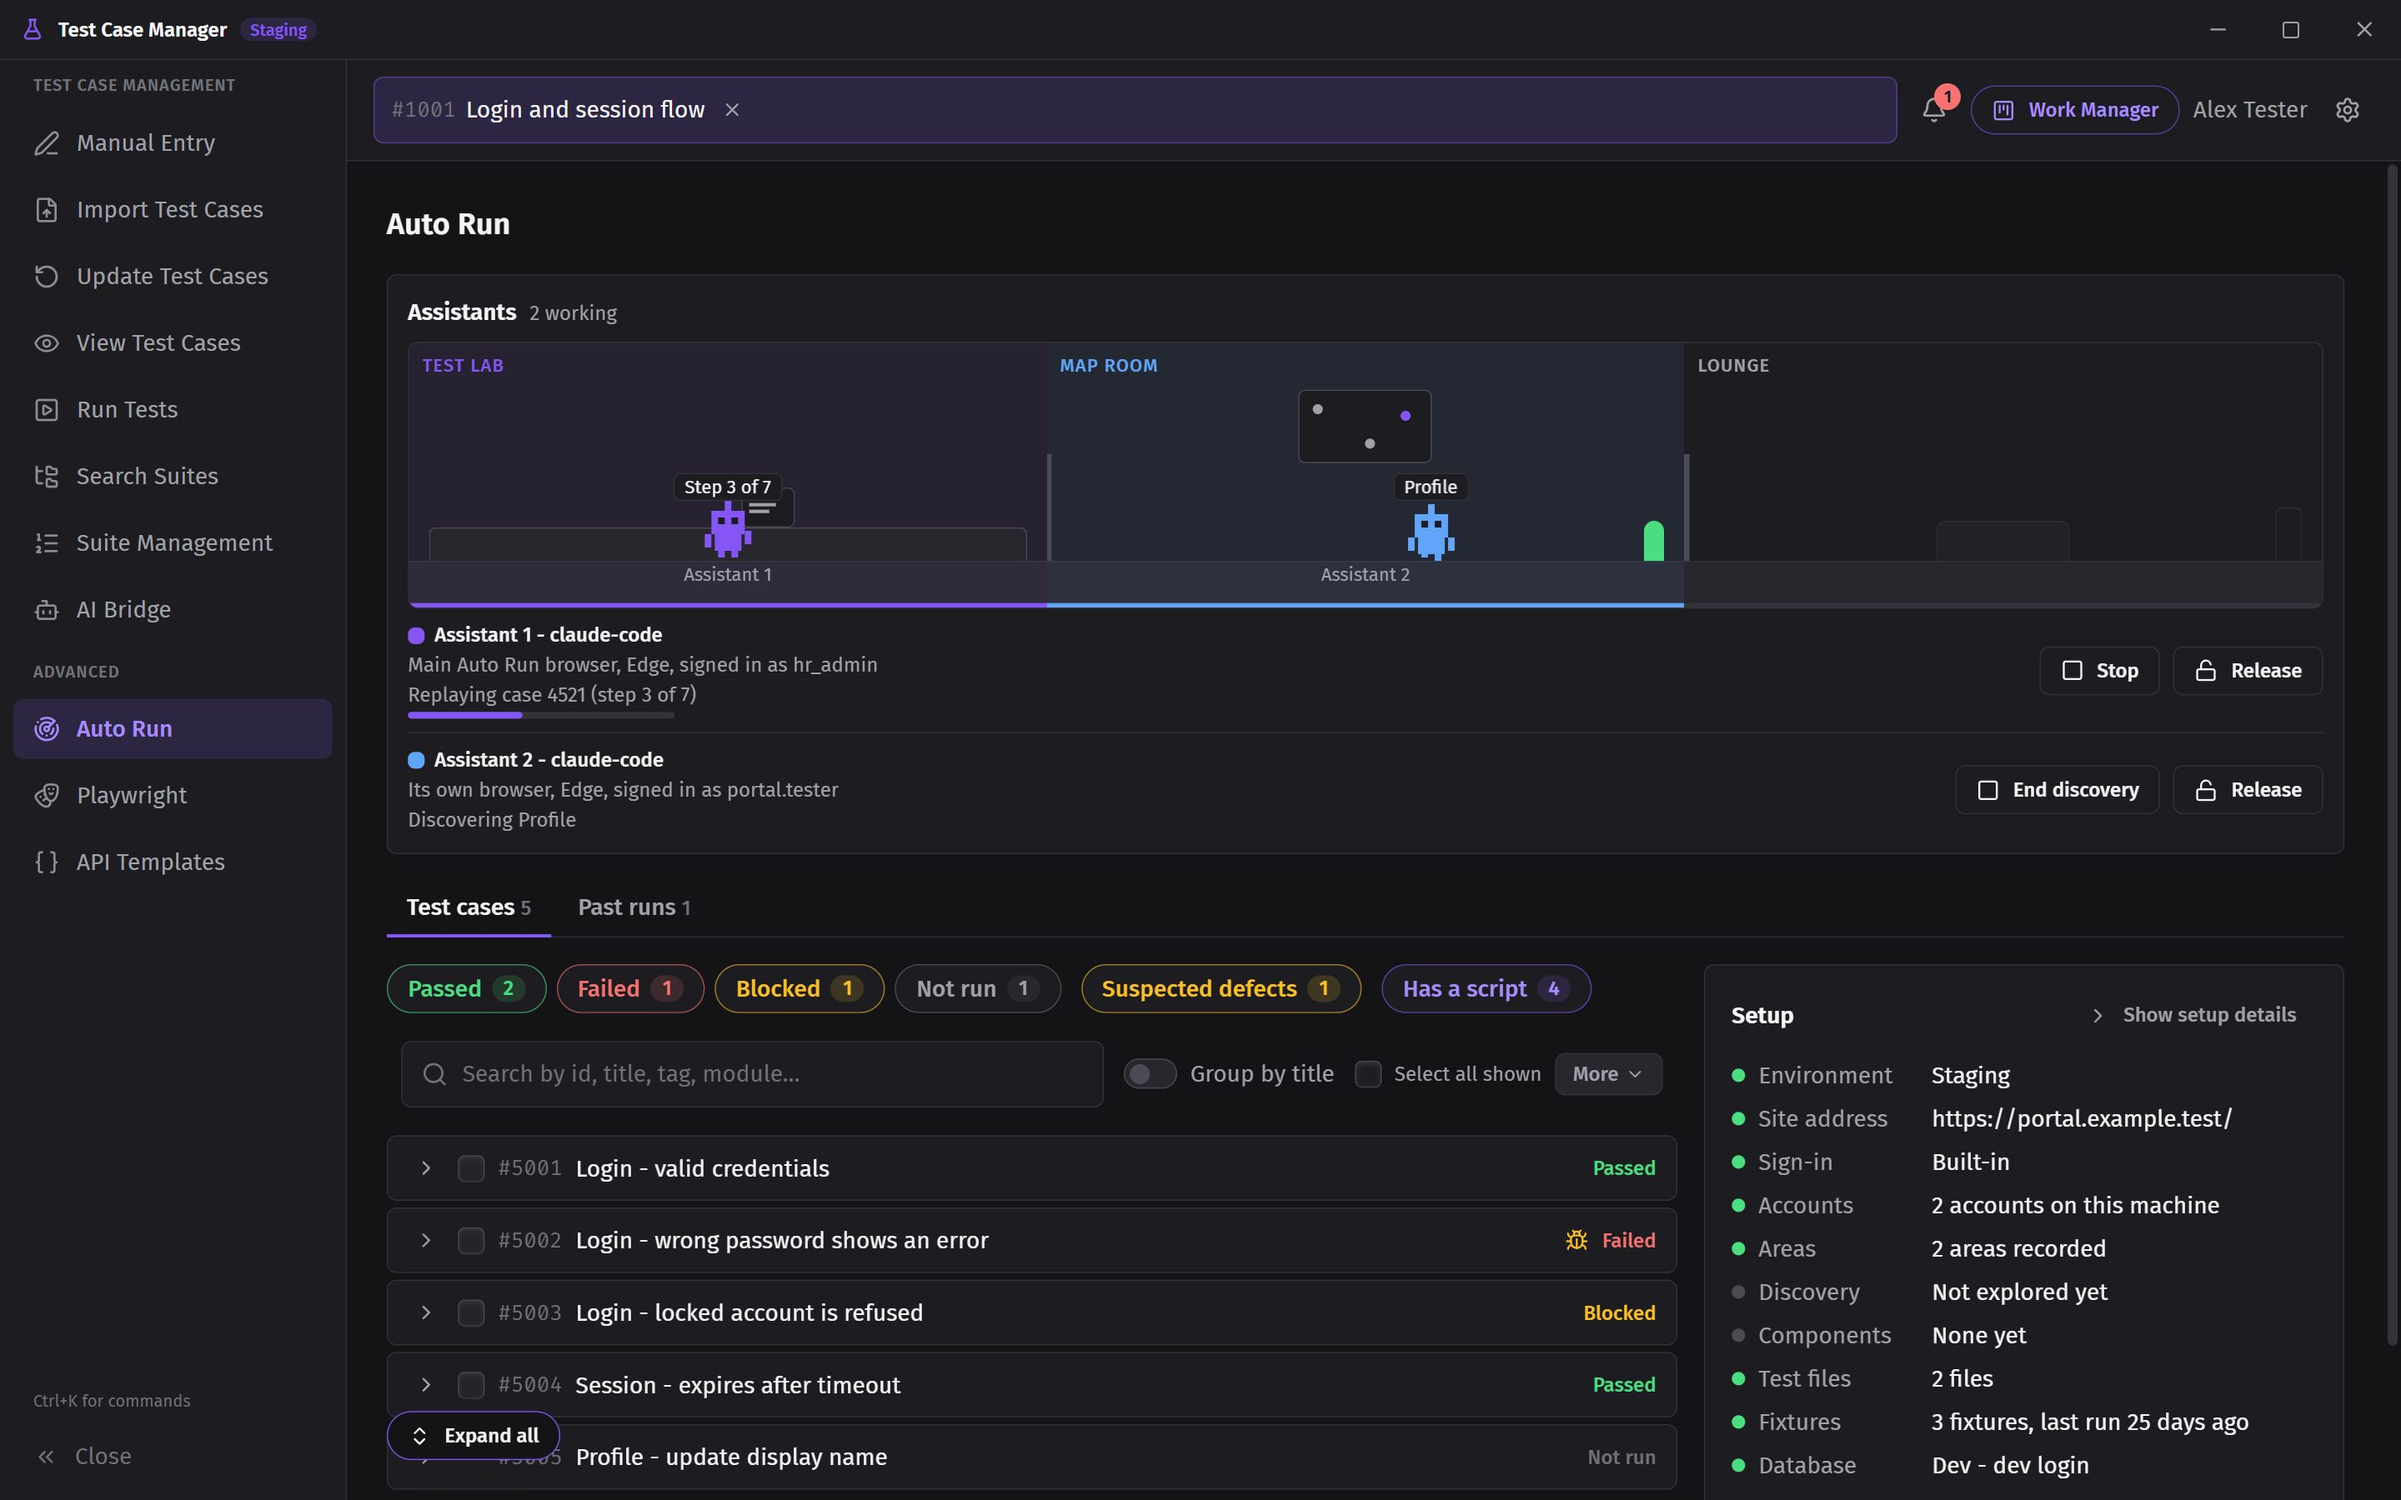
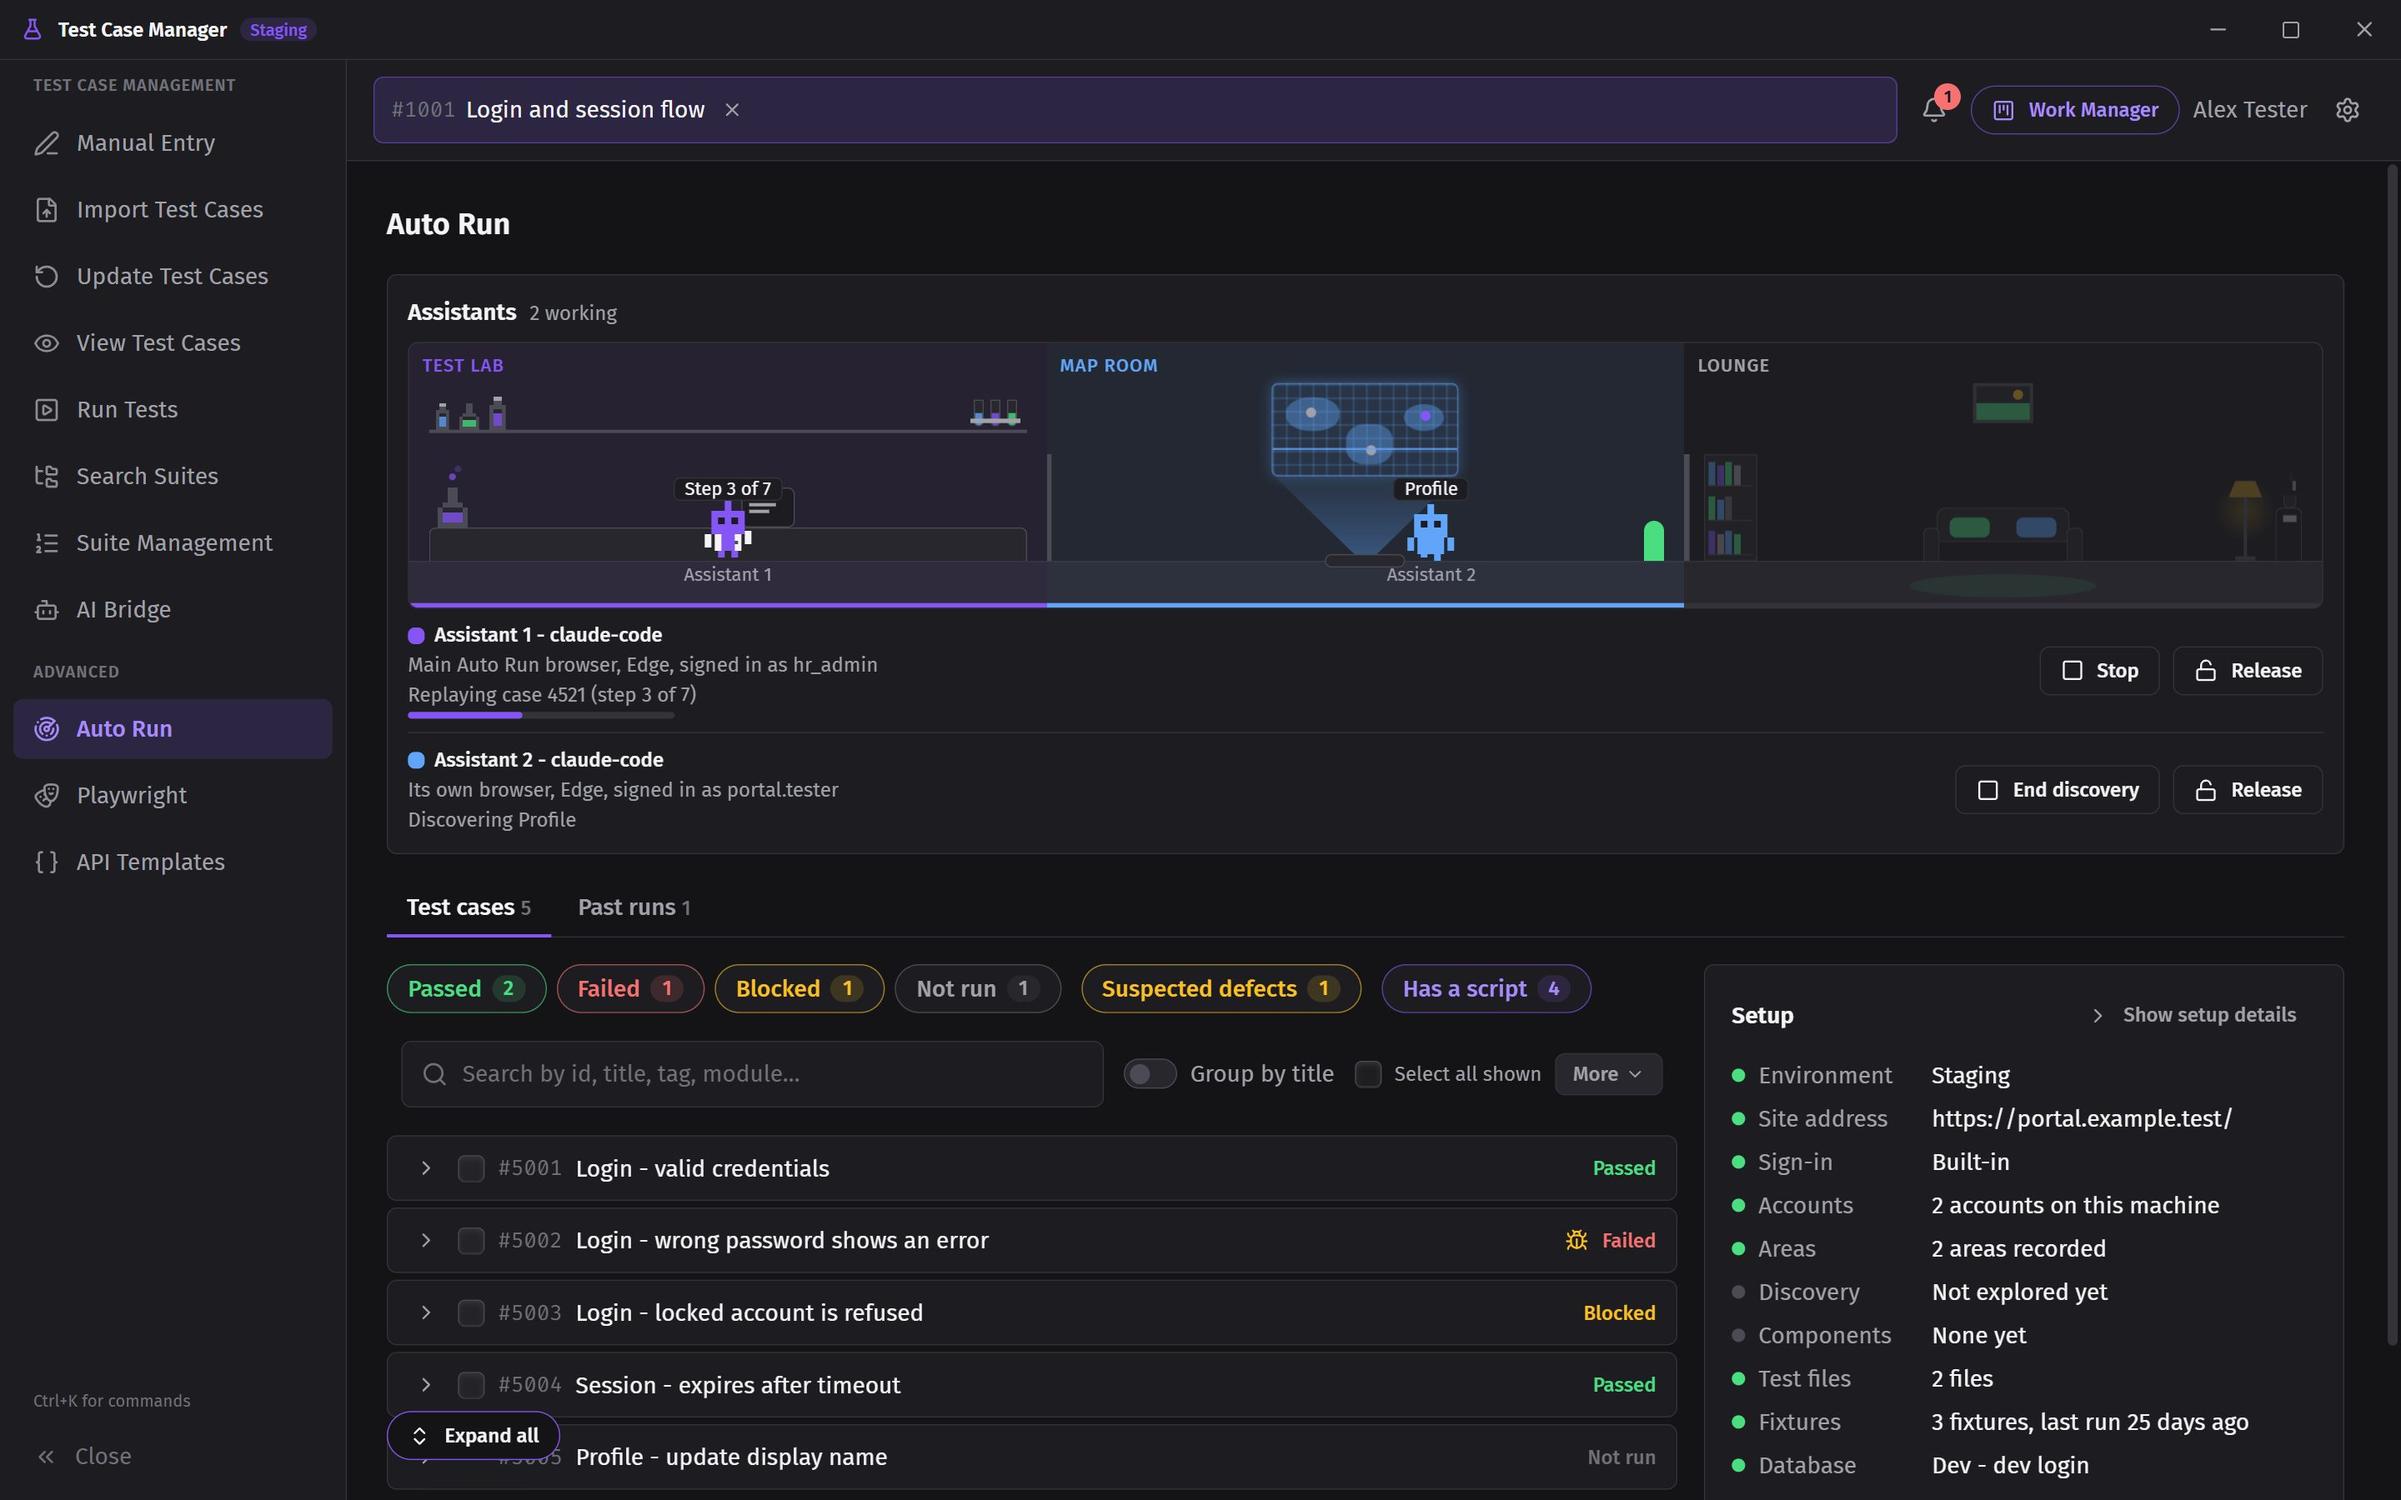
docs(v2): backlog 42 and 43 done, the hand checks owed, and the furnished office in How To Use

diff --git a/docs/backlog.html b/docs/backlog.html
@@ -75,6 +75,22 @@
     </ul>
   </div>
 
+  <h2>Second writer run, backlog 42 and 43, and a furnished office (2.4.2-beta.3, 29 October 2026)</h2>
+  <div class="item">
+    <div class="head"><span class="title">Shipped</span><span class="status todo">Shipped</span></div>
+    <p>Areas keep a menu path per menu shape; walks wait out overlays and keep an open menu open; probes count every visible match and show attributes; page answers drop an unchanged side menu; truer save notes and replays; a reset keeps its sign-in; fuller divergences. Writers make the data a case needs (through the app or API templates, never their own SQL) instead of holding it back. The Assistants office: name tags pace with their assistant, assistants without an Auto Run browser are left out, and the three rooms are furnished (chemistry lab with lab coats, holographic map, furnished lounge).</p>
+    <ul>
+      <li>Hand check owed on a live org: an account with the other menu shape (evelyn, automation51) reaches My Assessments after a writer records the second path with variant: true.</li>
+      <li>Hand check owed: the first Talent click after sign-in waits out div.mode-overlay__desc; an expanded Talent is not collapsed.</li>
+      <li>Hand check owed: reset_autorun_browser after a long discovery keeps the sign-in (log line to look for if not: "the assistant's reset found the sign-in gone").</li>
+      <li>Hand check owed: a writer run that makes its own data (a participant, a cycle) and saves it as a fixture, with nothing held back that could be made.</li>
+      <li>Hand check owed: the furnished office in a real window, both screens, light and dark, with someone idle in the Lounge.</li>
+      <li>Not detected: a sign-in reached by a click-through redirect (the print retake skips only a navigate to the sign-in address, a typed password or a sign_in action).</li>
+      <li>Not reproduced: 144580's exact trailing-space failure. Record a quirk on the cycle-selection race on a live run.</li>
+      <li>The per-call timing line is at debug level (hidden in the log viewer by default).</li>
+    </ul>
+  </div>
+
   <h2>Several writers fixes, backlog 41 (2.4.2-beta.2, 28 October 2026)</h2>
   <div class="item">
     <div class="head"><span class="title">Shipped</span><span class="status todo">Shipped</span></div>

diff --git a/src-tauri/help/index.html b/src-tauri/help/index.html
@@ -1,7 +1,7 @@
 <!doctype html>
 <html lang="en">
   <head>
[2 lines of base64/hex data omitted]
     <meta charset="UTF-8" />
     <meta name="viewport" content="width=device-width, initial-scale=1.0" />
     <meta name="color-scheme" content="light" />

diff --git a/docs/autorun/backlog-2026-10.md b/docs/autorun/backlog-2026-10.md
@@ -880,6 +880,24 @@ information in the slots the Playwright pipeline already reads; it never overrid
     "Hold the case back" wording change with it; the data made is listed in the run report and
     saved as a fixture so it can be rebuilt.
 
+**Items 42 and 43 done in 2.4.2-beta.3** (plan `docs/superpowers/plans/2026-10-28-backlog-42-43.md`).
+Built: an area keeps a menu path per menu shape (`save_autorun_area` with `variant: true`; a
+walk tries each path, the item 41 sentence only when all fail, the furthest failure answers); a
+walk waits out a covering overlay, skips a click whose next target already shows (and walks again
+with every click when that goes wrong); a discovery start settles before it answers; probes list
+every visible match by `nth`, show attributes and parents, refuse Playwright selectors with a
+sentence; page answers collapse unchanged side menus per reader; `get_autorun_page` takes
+`query`; a guide section skips the preamble for a named agent; truer save notes; a look-only
+replay never says "saved" (a request the guard let through is said as such); the sign-in print is
+retaken after each discovery call, so a reset keeps the sign-in; carried locators last only for
+their discovery; divergences take "..." between quoted pieces (in order), 1000 characters and a
+`proposal`; an action list in the guide; each bridge call's time in the log (debug level).
+Item 43: writers make the data a case needs (API template, fixture, or by hand in the app; never
+their own SQL - owner, 2026-10-28), one record per consuming case, publish only a cycle the run
+made when the case needs it, save it as a fixture, list it; held back only when it cannot be
+made. Not code: the cycle-selection race (record it as a quirk on a live run). Not reproduced
+offline: 144580's trailing-space `exact` failure (every name path already folds whitespace).
+
 ## Smaller
 
 - `save_autorun_script` through MCP drops `edits`, so repairs had to go through
